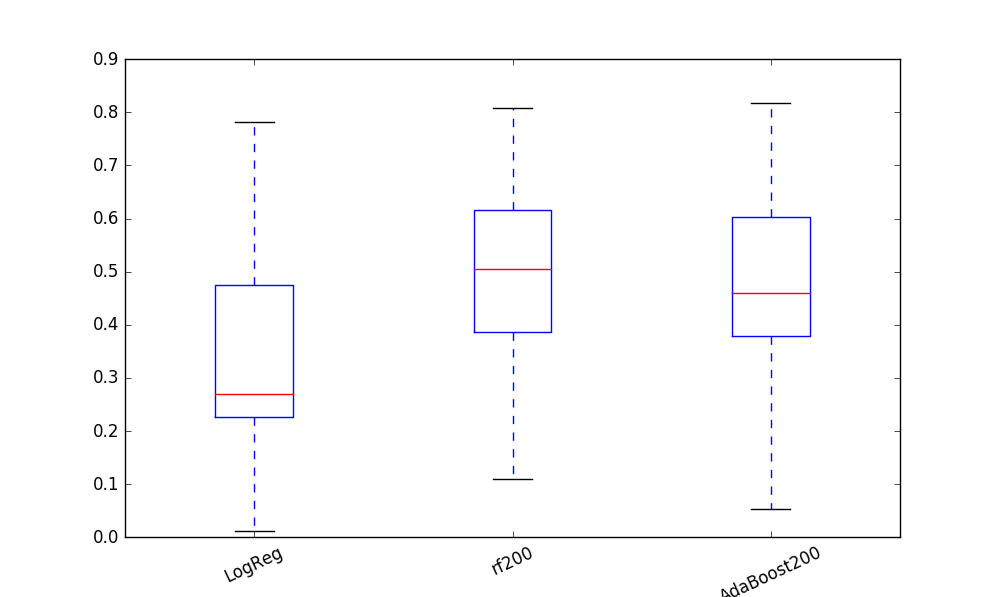
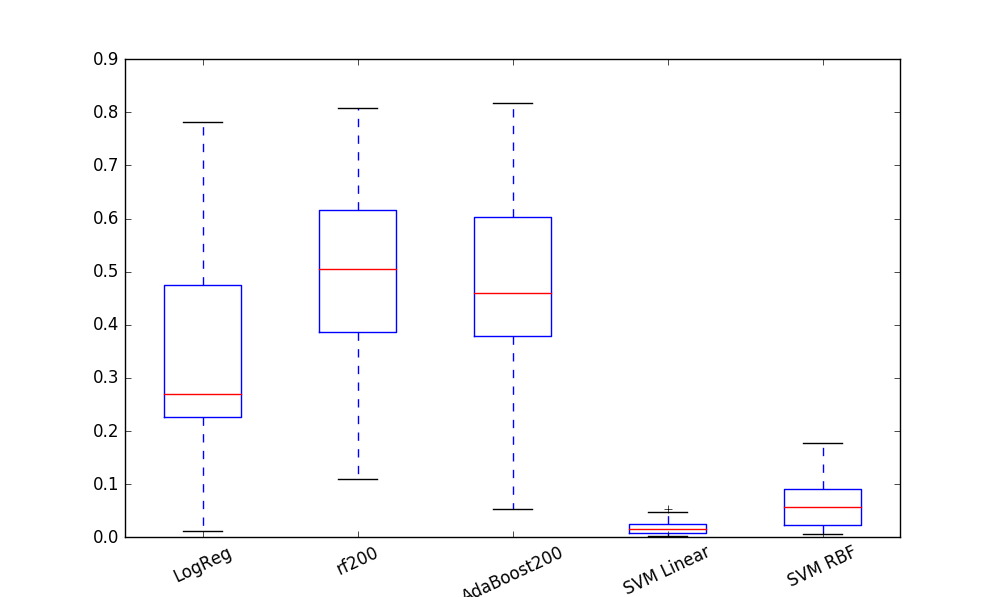
Add updated boxplot

diff --git a/src/interpreter.py b/src/interpreter.py
@@ -18,7 +18,7 @@ def boxplot(data,labels):
         print labels,np.mean(file),np.std(file)
 
 if __name__ == "__main__":
-    filenames = ['logreg_dice.pkl','rf200_dice.pkl','adaboost200_dice.pkl']
+    filenames = ['logreg_dice.pkl','rf200_dice.pkl','adaboost200_dice.pkl','svmlinear_dice.pkl','svmrbf_dice.pkl']
     data = load_data(filenames)
-    boxplot(data,['LogReg','rf200','AdaBoost200'])
+    boxplot(data,['LogReg','rf200','AdaBoost200','SVM Linear', 'SVM RBF'])
     plt.show()
